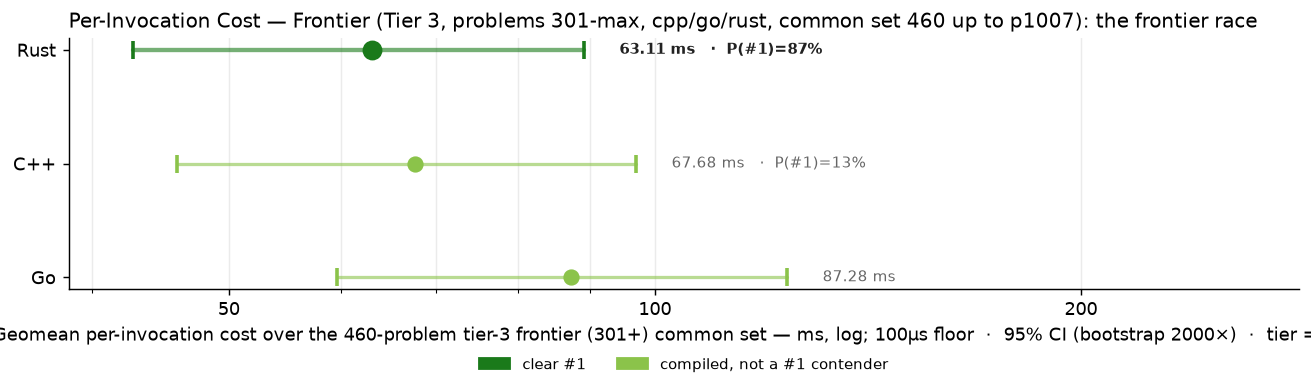
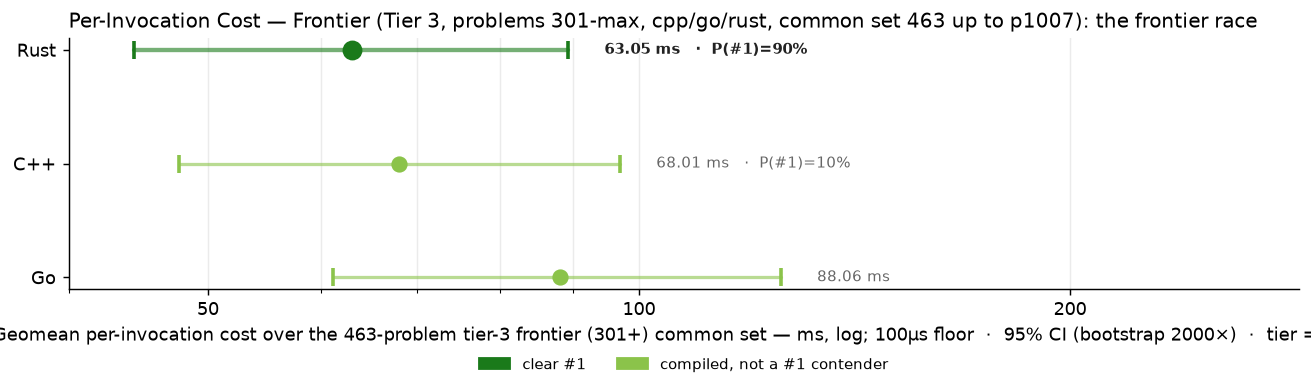
bench: frontier trio solves p0616,p0703,p0732

diff --git a/RESULTS.md b/RESULTS.md
@@ -1,6 +1,6 @@
 # Project Euler — Cross-Language Benchmarks
 
-> **Scope: 4521 in-scope cells across 1007 problems × tiered languages — 3794 measured (83.9% coverage).**
+> **Scope: 4521 in-scope cells across 1007 problems × tiered languages — 3803 measured (84.1% coverage).**
 > The cross-language ranking below is computed over the **200-problem common set** (problems in 1-200 where every language has a passing measurement) — the apples-to-apples Foundation comparison surface.  Per-tier rankings and coverage detail appear further below.
 > Growing carefully — each new problem and language is audited for state-leak
 > safety, verified for answer correctness, and added only when it cleanly fits the
@@ -70,15 +70,15 @@ Same scatter as the Foundation chart, restricted to the tier-2 active languages 
 
 The frontier verification trio — C++, Go, Rust — on problems above 300. 3-way cross-language agreement is the verification protocol (strictly stronger than 2-way; see JOURNEY.md "Tier Reframing" episode for the p254 lesson that motivated it). Python and Zig are explicitly out of this tier — python's wall cost makes it impractical at level 5+, and zig's role caps at Tier 2.
 
-### Per-Invocation Cost (Common Set, 460 of ≤707 problems in scope)
+### Per-Invocation Cost (Common Set, 463 of ≤707 problems in scope)
 
 ![Per-Invocation Cost — Tier 3](charts/per_iter_total_tier3.png)
 
-| Rank | Language | Geomean (460-problem common set) | Total (sum) | Lines of code | vs Fastest |
+| Rank | Language | Geomean (463-problem common set) | Total (sum) | Lines of code | vs Fastest |
 |------|----------|--------------------:|------------:|--------------:|-----------:|
-| 1 | **Rust** | 63.11 ms | 1459.75 s | 68,092 | 1.00× |
-| 2 | **C++** | 67.68 ms | 1601.44 s | 54,439 | 1.07× |
-| 3 | **Go** | 87.28 ms | 1818.22 s | 69,472 | 1.38× |
+| 1 | **Rust** | 63.05 ms | 1460.13 s | 69,002 | 1.00× |
+| 2 | **C++** | 68.01 ms | 1604.21 s | 55,224 | 1.08× |
+| 3 | **Go** | 88.06 ms | 1855.31 s | 70,733 | 1.40× |
 
 ### Speed vs Code Size
 

diff --git a/per_problem/per_problem_0701-0800.md b/per_problem/per_problem_0701-0800.md
@@ -10,7 +10,7 @@ in tier-1 display order (native → managed → interpreted).
 |---------|----:|----:|----:|
 | **p0701** | 66.09 s | 13.85 s | 66.34 s |
 | **p0702** | — | — | — |
-| **p0703** | — | — | — |
+| **p0703** | 17.29 ms | 15.01 ms | 16.36 ms |
 | **p0704** | <1 µs | <1 µs | 1.0 µs~ |
 | **p0705** | 676.48 ms | 715.66 ms | 876.28 ms |
 | **p0706** | 13.35 ms | 3.05 ms | 5.42 ms |
@@ -39,7 +39,7 @@ in tier-1 display order (native → managed → interpreted).
 | **p0729** | — | — | — |
 | **p0730** | — | — | — |
 | **p0731** | 117.5 µs | 73.5 µs | 69.0 µs |
-| **p0732** | — | — | — |
+| **p0732** | 65.04 ms | 31.00 ms | 68.85 ms |
 | **p0733** | 385.13 ms | 314.63 ms | 634.32 ms |
 | **p0734** | 346.07 ms | 171.90 ms | 97.52 ms |
 | **p0735** | — | — | — |

diff --git a/per_problem/per_problem_0601-0700.md b/per_problem/per_problem_0601-0700.md
@@ -23,7 +23,7 @@ in tier-1 display order (native → managed → interpreted).
 | **p0613** | ✗ fail | — | — |
 | **p0614** | — | — | — |
 | **p0615** | 4.45 s | 3.67 s | 11.22 s† |
-| **p0616** | — | — | — |
+| **p0616** | 2.69 s | 332.69 ms | 37.00 s |
 | **p0617** | 21.8 µs | 16.9 µs | 20.2 µs |
 | **p0618** | 80.84 ms | 158.41 ms | 116.64 ms |
 | **p0619** | 41.15 ms | 71.29 ms | 40.19 ms |
